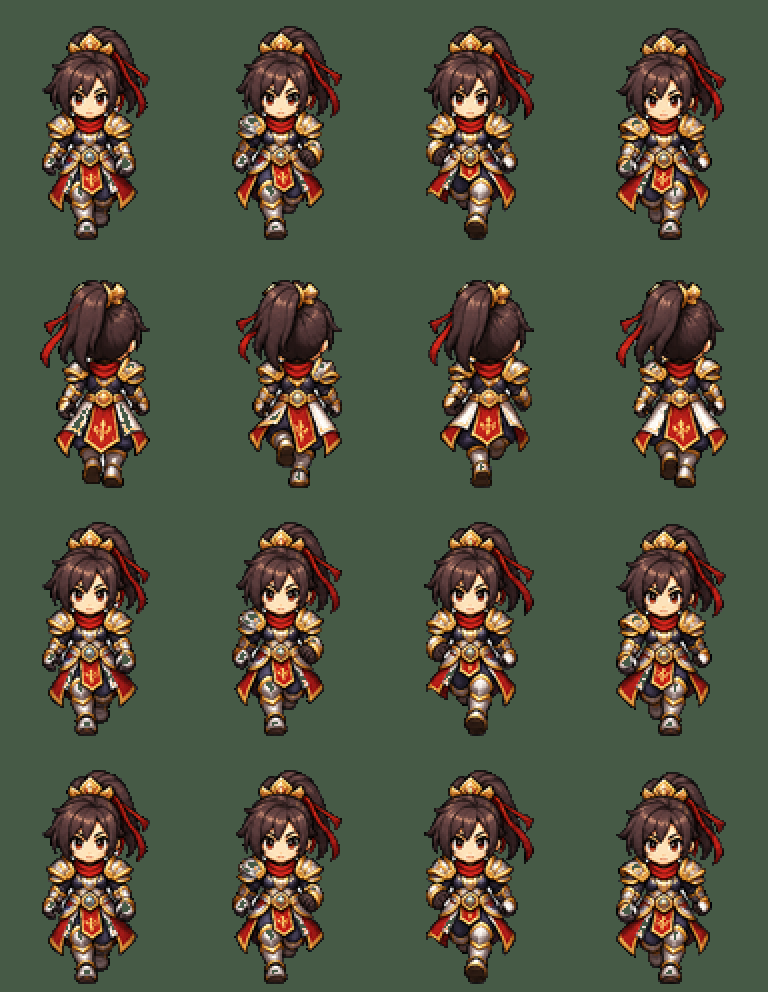
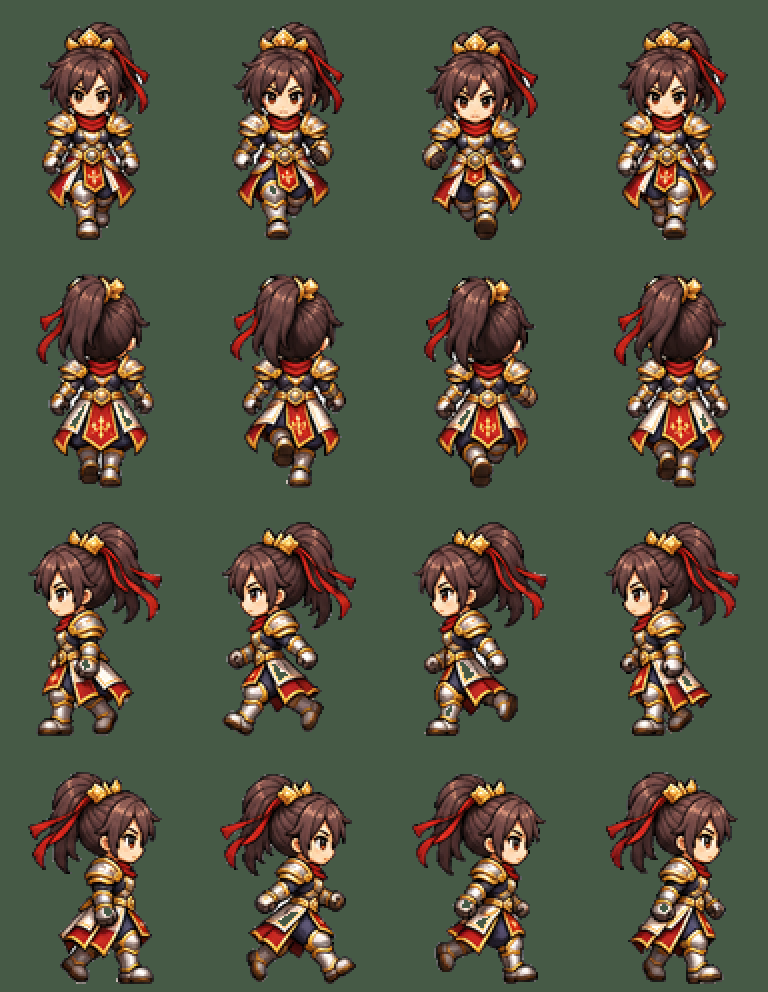
V2-R48: four-direction male/female bodies for seven classes
- New sheets for assassin, archer, guardian, healer, mage (m/f); black background and fringe cleanup
- Old archer pose sheet skipped when a class body exists
- Tests: smoke 134/134, online 97/97

Claude-Session: https://claude.ai/code/session_01Fx9SAiv1fdMtU2kmML8rNS

diff --git a/game/index.html b/game/index.html
@@ -847,7 +847,7 @@ function drawPlayer(){if(PS.dead)return;if(PS.hurt>0&&Math.floor(PS.hurt*20)%2)r
 /* ตัวละครต้นแบบแต่ละอาชีพ (tools/build_class_bodies.py) */
 const CBIMG={};function classBody(cls,look){const C=CLASS_BODY[cls];if(!C)return null;const e=C[look&&look.g==='f'?'f':'m']||C.m||C.f;if(!e)return null;
   if(!CBIMG[e.id]){const im=new Image();im.src='sprites/pcl_'+e.id+'.webp';CBIMG[e.id]=im}const im=CBIMG[e.id];return im.complete&&im.naturalWidth?im:null}
-const CLASS_BODY={"นักสู้":{"m":{"id":"fighter_m","dirs":"SNWE"},"f":{"id":"fighter_f","dirs":"SNWE"}},"ผู้สืบวิญญาณ":{"m":{"id":"spirit_m","dirs":"SNWE"},"f":{"id":"spirit_f","dirs":"SNWE"}},"ผู้พิทักษ์":{"m":{"id":"guardian_m","dirs":"SN"},"f":{"id":"guardian_f","dirs":"SN"}},"นักฆ่า":{"m":{"id":"assassin_m","dirs":"SN"},"f":{"id":"assassin_f","dirs":"SN"}},"ผู้ใช้มนตรา":{"m":{"id":"mage","dirs":"SN"},"f":{"id":"mage","dirs":"SN"}},"ผู้รักษา":{"m":{"id":"healer","dirs":"SN"},"f":{"id":"healer","dirs":"SN"}}};/*CLASS_BODY*/
+const CLASS_BODY={"นักสู้":{"m":{"id":"fighter_m","dirs":"SNWE"},"f":{"id":"fighter_f","dirs":"SNWE"}},"นักฆ่า":{"m":{"id":"assassin_m","dirs":"SNWE"},"f":{"id":"assassin_f","dirs":"SNWE"}},"นักธนู":{"m":{"id":"archer_m","dirs":"SNWE"},"f":{"id":"archer_f","dirs":"SNWE"}},"ผู้พิทักษ์":{"m":{"id":"guardian_m","dirs":"SNWE"},"f":{"id":"guardian_f","dirs":"SNWE"}},"ผู้รักษา":{"m":{"id":"healer_m","dirs":"SNWE"},"f":{"id":"healer_f","dirs":"SNWE"}},"ผู้ใช้มนตรา":{"m":{"id":"mage_m","dirs":"SNWE"},"f":{"id":"mage_f","dirs":"SNWE"}},"ผู้สืบวิญญาณ":{"m":{"id":"spirit_m","dirs":"SNWE"},"f":{"id":"spirit_f","dirs":"SNWE"}}};/*CLASS_BODY*/
 const CLASS_POSE={"นักธนู":{"m":{"id":"archer_m","seq":{"basic":[5,6,8,10],"skill":[4,6,7,8,10,11]}}}};/*CLASS_POSE*/
 /* เอฟเฟกต์สกิลจากตารางท่าของเจ้าของ (tools/build_skill_fx.py) */
 /* ตารางแบบ 4 ทิศ (tools/build_skill_fx4.py): ทิศลง = FRONT, ทิศขึ้น = BACK — ภาพเดียวต่อทิศ เล่นแบบขยาย/เรือง/จาง */
@@ -900,7 +900,7 @@ function drawPlayerBody(){
   if(PS.guardT>0){ctx.strokeStyle='rgba(140,210,255,.9)';ctx.lineWidth=2;ctx.beginPath();ctx.arc(player.x,player.y-22,26,0,7);ctx.stroke()}
   ctx.imageSmoothingEnabled=true;ctx.imageSmoothingQuality='high';
   const c=PS.cast;
-  if(c){const P=poseFor(curCls(),PS.look);if(P){const isB=c.key==='b',seq=isB?P.seq.basic:P.seq.skill,fi=seq[Math.min(seq.length-1,Math.floor(c.t/c.sk.poseT*seq.length))],side=player.dir==='E'||player.dir==='W'?player.dir:(player.lastH||'E'),dw=AWc*SCALE,dh=CHc*SCALE,py=player.y-(CHc-4)*SCALE;
+  if(c){const P=classBody(curCls(),PS.look)?null:poseFor(curCls(),PS.look);if(P){ /* ภาพท่าเก่า (ตัวละครแบบเดิม) ไม่ใช้เมื่ออาชีพมีตัวละครใหม่แล้ว */const isB=c.key==='b',seq=isB?P.seq.basic:P.seq.skill,fi=seq[Math.min(seq.length-1,Math.floor(c.t/c.sk.poseT*seq.length))],side=player.dir==='E'||player.dir==='W'?player.dir:(player.lastH||'E'),dw=AWc*SCALE,dh=CHc*SCALE,py=player.y-(CHc-4)*SCALE;
     ctx.save();ctx.translate(player.x,0);if(side==='W')ctx.scale(-1,1);ctx.drawImage(P.img,(fi%4)*AWc,Math.floor(fi/4)*CHc,AWc,CHc,-AAX*SCALE,py,dw,dh);ctx.restore();return}
     if(CLASS_WEAPON[curCls()]){drawClassCast(c);return}}
   if(c&&(player.dir==='N'||player.dir==='S')){drawVertCast(c);return}

diff --git a/tools/smoke-test.js b/tools/smoke-test.js
@@ -515,11 +515,11 @@ const rec = (name, pass, detail) => { results.push({ name, pass, detail }); cons
         const f = HL.fxList.find(f => /^cchart/.test(f.k)); out.push(d + ':' + (f ? f.k + (f.k === 'cchartud' ? (f.up ? '/up' : '/down') : '') : '-')); HL.PS.cast = null }
       HL.PS.cls = 'นักดาบ'; HL.buildSkills(); return out.join(' ') });
     rec('นักธนู/ผู้พิทักษ์ 4 ทิศ: หันลง/ขึ้นใช้ตาราง DOWN/UP 5 จังหวะ, ซ้ายใช้ตารางขวากลับด้าน', r === 'S:cchartud/down N:cchartud/up W:cchart S:cchartud/down N:cchartud/up W:cchart', r); }
-  { const r = await page.evaluate(async () => { const want = { 'นักสู้': ['fighter_m', 'fighter_f'], 'นักฆ่า': ['assassin_m', 'assassin_f'], 'ผู้ใช้มนตรา': ['mage', 'mage'], 'ผู้รักษา': ['healer', 'healer'], 'ผู้สืบวิญญาณ': ['spirit_m', 'spirit_f'], 'ผู้พิทักษ์': ['guardian_m', 'guardian_f'] };
+  { const r = await page.evaluate(async () => { const want = { 'นักสู้': ['fighter_m', 'fighter_f'], 'นักฆ่า': ['assassin_m', 'assassin_f'], 'ผู้ใช้มนตรา': ['mage_m', 'mage_f'], 'ผู้รักษา': ['healer_m', 'healer_f'], 'ผู้สืบวิญญาณ': ['spirit_m', 'spirit_f'], 'ผู้พิทักษ์': ['guardian_m', 'guardian_f'], 'นักธนู': ['archer_m', 'archer_f'] };
       for (let i = 0; i < 200 && !Object.keys(want).every(c => HL.classBody(c, { g: 'm' }) && HL.classBody(c, { g: 'f' })); i++) await new Promise(r => setTimeout(r, 50));
       const bad = []; for (const [c, [m, f]] of Object.entries(want)) { const a = HL.classBody(c, { g: 'm' }), b = HL.classBody(c, { g: 'f' }); if (!a || !a.src.includes('pcl_' + m) || a.naturalWidth !== 384 || !b || !b.src.includes('pcl_' + f)) bad.push(c) }
       return { bad, sword: !!HL.classBody('นักดาบ', { g: 'm' }) } });
-    rec('ตัวละครต้นแบบอาชีพ 6 อาชีพโหลดได้ 4 ทิศ; นักดาบใช้ตัวเดิม', r.bad.length === 0 && !r.sword, JSON.stringify(r)); }
+    rec('ตัวละครต้นแบบ 7 อาชีพ (ชาย/หญิง) โหลดได้ 4 ทิศ; นักดาบใช้ตัวเดิม', r.bad.length === 0 && !r.sword, JSON.stringify(r)); }
   rec('หน้าเกมปกติ (ระบบทดสอบอัตโนมัติ) ข้ามหน้าโหลดได้', await page.evaluate(() => document.getElementById('splash').hidden && SND.splash.shown === false));
   rec('ไม่มี JavaScript error ระหว่างทดสอบ', errors.length === 0, errors.slice(0, 5).join(' | '));
   await browser.close(); srv.close();

diff --git a/tools/build_class_bodies.py b/tools/build_class_bodies.py
@@ -64,17 +64,83 @@ def two_rows(name, split):
     im = unbg(os.path.join(SRC, name)); W, H = im.size
     return {'S': row_frames(im.crop((0, 0, W, split))), 'N': row_frames(im.crop((0, split, W, H)))}
 
+def black_bg(im):
+    """พื้นดำ: เติมจากขอบผ่านพิกเซลมืด + ลบเศษสีแดงจัด (ภาพบางชุดมีขอบแดงเพี้ยน) + ก้อนเล็ก"""
+    im = im.convert('RGBA'); W, H = im.size; px = im.load()
+    def dk(p): return p[3] < 20 or max(p[:3]) < 42
+    seen = bytearray(W * H); q = deque([(x, y) for x in range(W) for y in (0, H - 1)] + [(x, y) for y in range(H) for x in (0, W - 1)])
+    while q:
+        x, y = q.popleft(); i = y * W + x
+        if seen[i] or not dk(px[x, y]): continue
+        seen[i] = 1; px[x, y] = (0, 0, 0, 0)
+        for nx, ny in ((x + 1, y), (x - 1, y), (x, y + 1), (x, y - 1)):
+            if 0 <= nx < W and 0 <= ny < H: q.append((nx, ny))
+    for y in range(H):
+        for x in range(W):
+            r, g, b, a = px[x, y]
+            if a and r > 170 and g < 70 and b < 70: px[x, y] = (0, 0, 0, 0)
+    seen2 = bytearray(W * H)
+    for sy in range(H):
+        for sx in range(W):
+            p0 = px[sx, sy]
+            if seen2[sy * W + sx] or not p0[3] or max(p0[:3]) >= 22: continue
+            comp = []; q2 = deque([(sx, sy)]); seen2[sy * W + sx] = 1
+            while q2:
+                x, y = q2.popleft(); comp.append((x, y))
+                for nx, ny in ((x + 1, y), (x - 1, y), (x, y + 1), (x, y - 1)):
+                    if 0 <= nx < W and 0 <= ny < H and not seen2[ny * W + nx] and px[nx, ny][3] and max(px[nx, ny][:3]) < 22: seen2[ny * W + nx] = 1; q2.append((nx, ny))
+            if len(comp) >= 40:  # พื้นดำที่ติดในช่องปิด (ระหว่างคันธนูกับสาย)
+                for x, y in comp: px[x, y] = (0, 0, 0, 0)
+    return im
+
+def drop_small(im, mn=250):
+    W, H = im.size; px = im.load(); seen = bytearray(W * H)
+    for sy in range(H):
+        for sx in range(W):
+            if seen[sy * W + sx] or not px[sx, sy][3]: continue
+            comp = []; q = deque([(sx, sy)]); seen[sy * W + sx] = 1
+            while q:
+                x, y = q.popleft(); comp.append((x, y))
+                for nx, ny in ((x + 1, y), (x - 1, y), (x, y + 1), (x, y - 1)):
+                    if 0 <= nx < W and 0 <= ny < H and not seen[ny * W + nx] and px[nx, ny][3]: seen[ny * W + nx] = 1; q.append((nx, ny))
+            if len(comp) < mn:
+                for x, y in comp: px[x, y] = (0, 0, 0, 0)
+    return im
+
+def grid4(name, box=None, bg='light'):
+    """ตาราง 4 แถว (ลง/ขึ้น/ซ้าย/ขวา) × 4 เฟรม: แบ่งแถวตามช่องว่างแนวนอน"""
+    f = os.path.join(SRC, name)
+    if bg == 'light':
+        src = Image.open(f).convert('RGB'); src = src.crop(box) if box else src
+        tmp = '/tmp/hl_grid4.png'; src.save(tmp); im = unbg(tmp)
+    else:
+        src = Image.open(f); src = src.crop(box) if box else src; im = black_bg(src)
+    im = drop_small(im); a = im.split()[3]; W, H = im.size
+    occ = [sum(1 for x in range(0, W, 3) if a.getpixel((x, y))) > 2 for y in range(H)]
+    bands, st = [], None
+    for y, o in enumerate(occ + [False]):
+        if o and st is None: st = y
+        elif not o and st is not None:
+            if y - st > H * .1: bands.append((st, y))
+            st = None
+    assert len(bands) == 4, (name, box, bands)
+    return {d: row_frames(im.crop((0, b0, W, b1))) for d, (b0, b1) in zip('SNWE', bands)}
+
 SETS = [  # (id, อาชีพ, เพศที่ใช้, ฟังก์ชัน)
     ('fighter_m', 'นักสู้', ['m'], lambda: fighter('m')),
+    ('assassin_m', 'นักฆ่า', ['m'], lambda: grid4('assassin_mf4.png', (8, 8, 880, 880))),
+    ('assassin_f', 'นักฆ่า', ['f'], lambda: grid4('assassin_mf4.png', (896, 8, 1766, 880))),
+    ('archer_m', 'นักธนู', ['m'], lambda: grid4('archer_m.png')),
+    ('archer_f', 'นักธนู', ['f'], lambda: grid4('archer_f.png', bg='black')),
+    ('guardian_m', 'ผู้พิทักษ์', ['m'], lambda: grid4('guardian_m4.png', (225, 70, 1200, 1200))),
+    ('guardian_f', 'ผู้พิทักษ์', ['f'], lambda: grid4('guardian_f4.png', (175, 90, 1230, 1215))),
+    ('healer_m', 'ผู้รักษา', ['m'], lambda: grid4('healer_m4.png')),
+    ('healer_f', 'ผู้รักษา', ['f'], lambda: grid4('healer_f4.png')),
+    ('mage_m', 'ผู้ใช้มนตรา', ['m'], lambda: grid4('mage_mf4.png', (6, 6, 880, 880), bg='black')),
+    ('mage_f', 'ผู้ใช้มนตรา', ['f'], lambda: grid4('mage_mf4.png', (894, 6, 1768, 880), bg='black')),
     ('fighter_f', 'นักสู้', ['f'], lambda: quad('fighter_f2.png')),  # แบบใหม่ (ชุดแดงหางม้า) แทนชุดในภาพนักสู้ชาย/หญิง
     ('spirit_m', 'ผู้สืบวิญญาณ', ['m'], lambda: panels('spirit_m.png')),
     ('spirit_f', 'ผู้สืบวิญญาณ', ['f'], lambda: quad('spirit_f.png')),
-    ('guardian_m', 'ผู้พิทักษ์', ['m'], lambda: two_rows('guardian_m.png', 440)),
-    ('guardian_f', 'ผู้พิทักษ์', ['f'], lambda: two_rows('guardian_f.png', 505)),
-    ('assassin_m', 'นักฆ่า', ['m'], lambda: assassin('m')),
-    ('assassin_f', 'นักฆ่า', ['f'], lambda: assassin('f')),
-    ('mage', 'ผู้ใช้มนตรา', ['m', 'f'], lambda: grid16('mage_front.png', 'mage_back.png')),
-    ('healer', 'ผู้รักษา', ['m', 'f'], lambda: grid16('healer_front.png', 'healer_back.png')),
 ]
 cat = {}
 for sid, cls, gs, fn in SETS:

diff --git a/docs/CHANGELOG.md b/docs/CHANGELOG.md
@@ -1,5 +1,12 @@
 # ประวัติเวอร์ชัน
 
+## V2-R48 — 2026-11-12 (ตัวละครต้นแบบครบ 7 อาชีพ ชาย/หญิง 4 ทิศ)
+
+- ภาพชุดใหม่ 4 ทิศครบ: นักฆ่า ชาย/หญิง, นักธนู ชาย/หญิง (ใหม่), ผู้พิทักษ์ ชาย/หญิง, ผู้รักษา ชาย (ใหม่)/หญิง, ผู้ใช้มนตรา ชาย/หญิง (ใหม่) — แทนชุดหน้า-หลังเดิม
+- `tools/build_class_bodies.py`: ตาราง 4 แถว (แบ่งแถวตามช่องว่าง), ลบพื้นดำ + เศษขอบแดง + พื้นดำที่ติดในคันธนู, ลบเศษก้อนเล็ก
+- ตอนนี้ทุกอาชีพยกเว้นนักดาบมีตัวละครชาย/หญิงของตัวเองครบ 4 ทิศ; ภาพท่ายิงธนูชุดเก่า (ตัวละครแบบเดิม) ไม่ใช้แล้ว — ใช้ตัวละครใหม่ + ท่าวาดธนู
+- ทดสอบ: smoke 134/134, online 97/97 · ภาพ `evidence/r48_class_bodies3.png`
+
 ## V2-R47 — 2026-11-12 (ตัวละครต้นแบบ: ผู้สืบวิญญาณ, ผู้พิทักษ์, นักสู้หญิงแบบใหม่)
 
 - ผู้สืบวิญญาณ ชาย/หญิง ครบ 4 ทิศ · ผู้พิทักษ์ ชาย (เกราะน้ำเงินทอง) / หญิง (เกราะแดงทอง) หน้า+หลัง — ภาพไม่มีชื่อกำกับ ตีความว่าเป็นผู้พิทักษ์ · นักสู้หญิงเปลี่ยนเป็นแบบใหม่ (ชุดแดงหางม้า) ครบ 4 ทิศ
